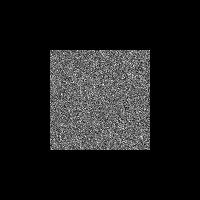
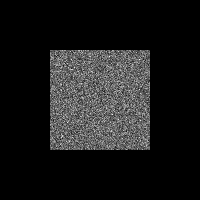
Removed obsolete field CameraSettings.FocusDistance

Changed region(s): [[0.24, 0.24, 0.75, 0.75]]

diff --git a/src/main/java/net/danielthompson/danray/SceneBuilder.java b/src/main/java/net/danielthompson/danray/SceneBuilder.java
@@ -104,7 +104,6 @@ public class SceneBuilder {
       CameraSettings settings = new CameraSettings();
       settings.X = x;
       settings.Y = y;
-      settings.FocusDistance = 500;
 
       Point origin = new Point(0, 0, 4000);
       Vector direction = new Vector(0, 0, -1);
@@ -338,8 +337,6 @@ public class SceneBuilder {
       settings.X = x;
       settings.Y = y;
       settings.FieldOfView = 35f;
-
-      settings.FocusDistance = 500;
 
       Transform[] inputTransforms = new Transform[]{
             Transform.Translate(0, 0, 200),
@@ -689,7 +686,6 @@ public class SceneBuilder {
       CameraSettings settings = new CameraSettings();
       settings.X = x;
       settings.Y = y;
-      settings.FocusDistance = 500;
 
       Point origin = new Point(100, 75, 700);
       Vector direction = new Vector(0, -.35f, -1);
@@ -840,7 +836,6 @@ public class SceneBuilder {
       CameraSettings settings = new CameraSettings();
       settings.X = x;
       settings.Y = y;
-      settings.FocusDistance = 75;
 
       Point origin = new Point(0, 0, 250);
       Vector direction = new Vector(0, 0, -1);
@@ -1029,7 +1024,6 @@ public class SceneBuilder {
       CameraSettings settings = new CameraSettings();
       settings.X = x;
       settings.Y = y;
-      settings.FocusDistance = 500;
 
       Point origin = new Point(100, 200, 600);
       Vector direction = new Vector(-.1f, -.3f, -1);
@@ -1096,7 +1090,6 @@ public class SceneBuilder {
       CameraSettings settings = new CameraSettings();
       settings.X = x;
       settings.Y = y;
-      settings.FocusDistance = 250;
 
       Point origin = new Point(100, 800, 1500);
       Vector direction = new Vector(0, -1, -1);
@@ -1354,7 +1347,6 @@ public class SceneBuilder {
       CameraSettings settings = new CameraSettings();
       settings.X = x;
       settings.Y = y;
-      settings.FocusDistance = 500;
 
       Point origin = new Point(300, 300, 2500);
       Vector direction = new Vector(0, 0, -1);
@@ -1570,7 +1562,6 @@ public class SceneBuilder {
       CameraSettings settings = new CameraSettings();
       settings.X = x;
       settings.Y = y;
-      settings.FocusDistance = 1487;
 
       Camera camera = new PerspectiveCamera(settings, null);
 
@@ -1802,7 +1793,6 @@ public class SceneBuilder {
       CameraSettings settings = new CameraSettings();
       settings.X = x;
       settings.Y = y;
-      settings.FocusDistance = 500;
 
       Camera camera = new PerspectiveCamera(settings, null);
 

diff --git a/src/main/java/net/danielthompson/danray/cameras/CameraSettings.java b/src/main/java/net/danielthompson/danray/cameras/CameraSettings.java
@@ -22,9 +22,4 @@ public class CameraSettings {
     * Focal length of the simulated lens. Must be 0 &lt;= fov &gt;= 360. Required.
     */
    public float FieldOfView;
-
-   /**
-    * Distance in world coordinates to the focus point. &gt;0 required for DOF, otherwise optional.
-    */
-   public float FocusDistance;
 }
